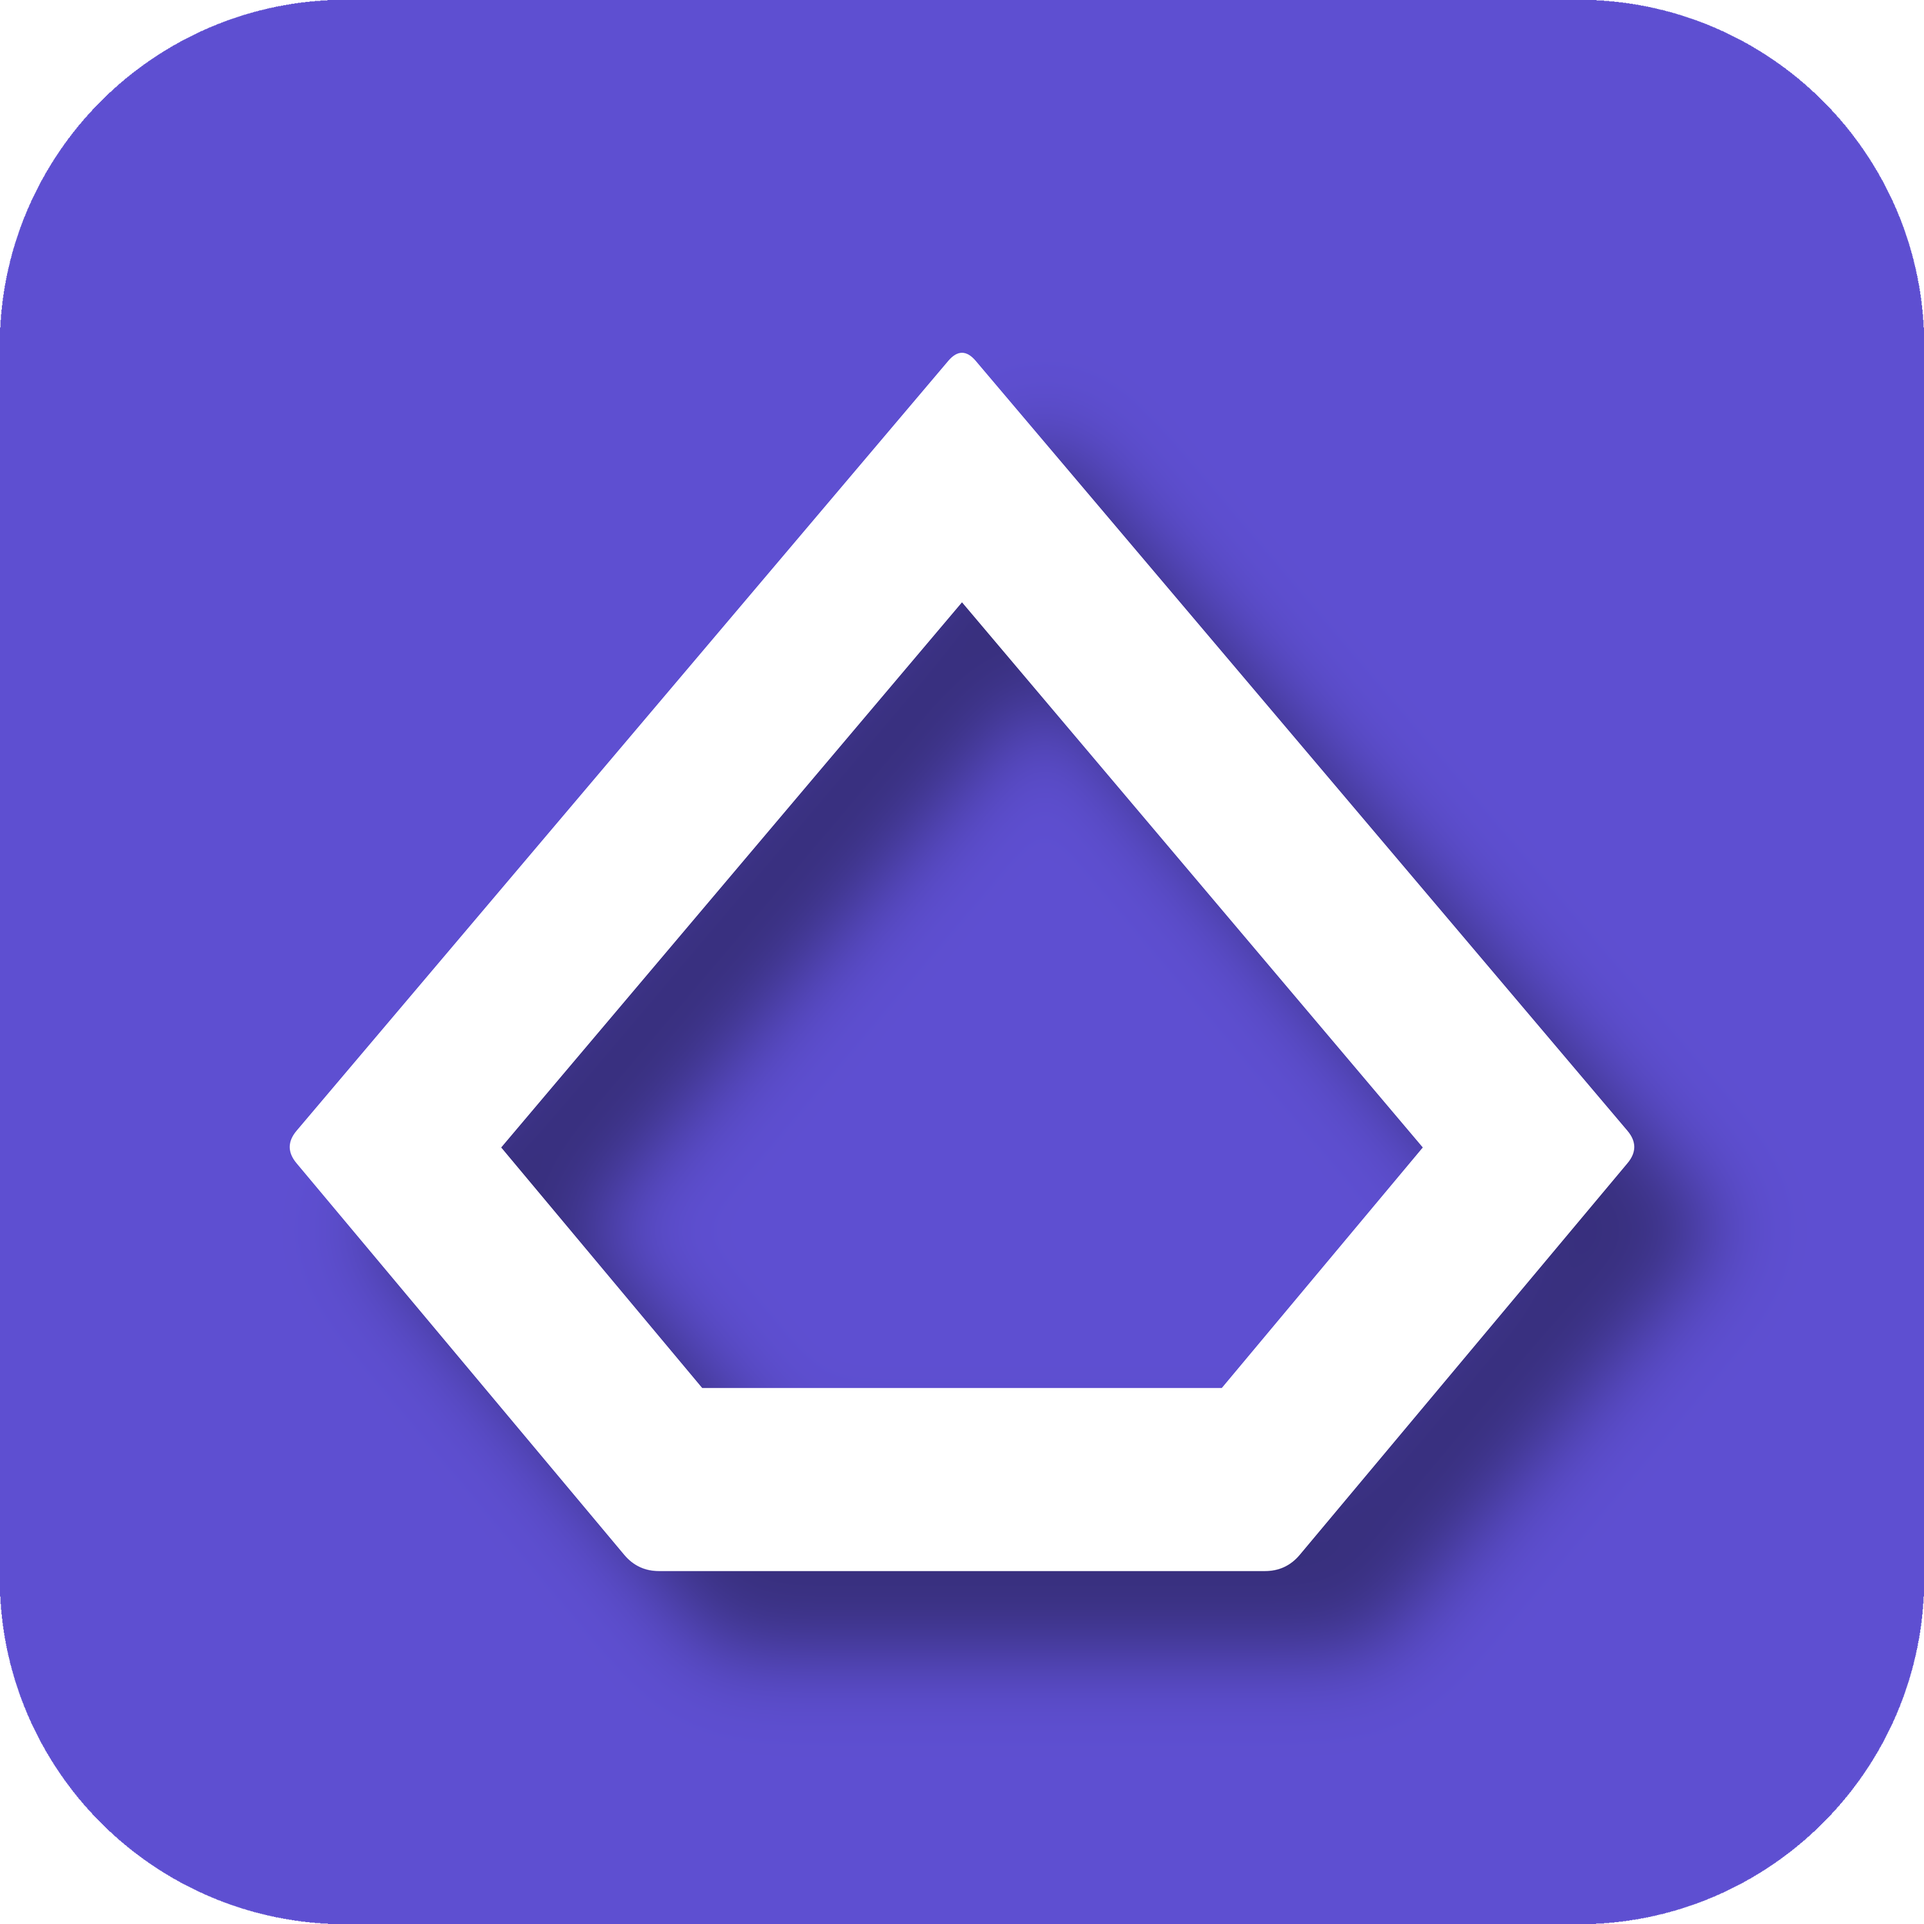
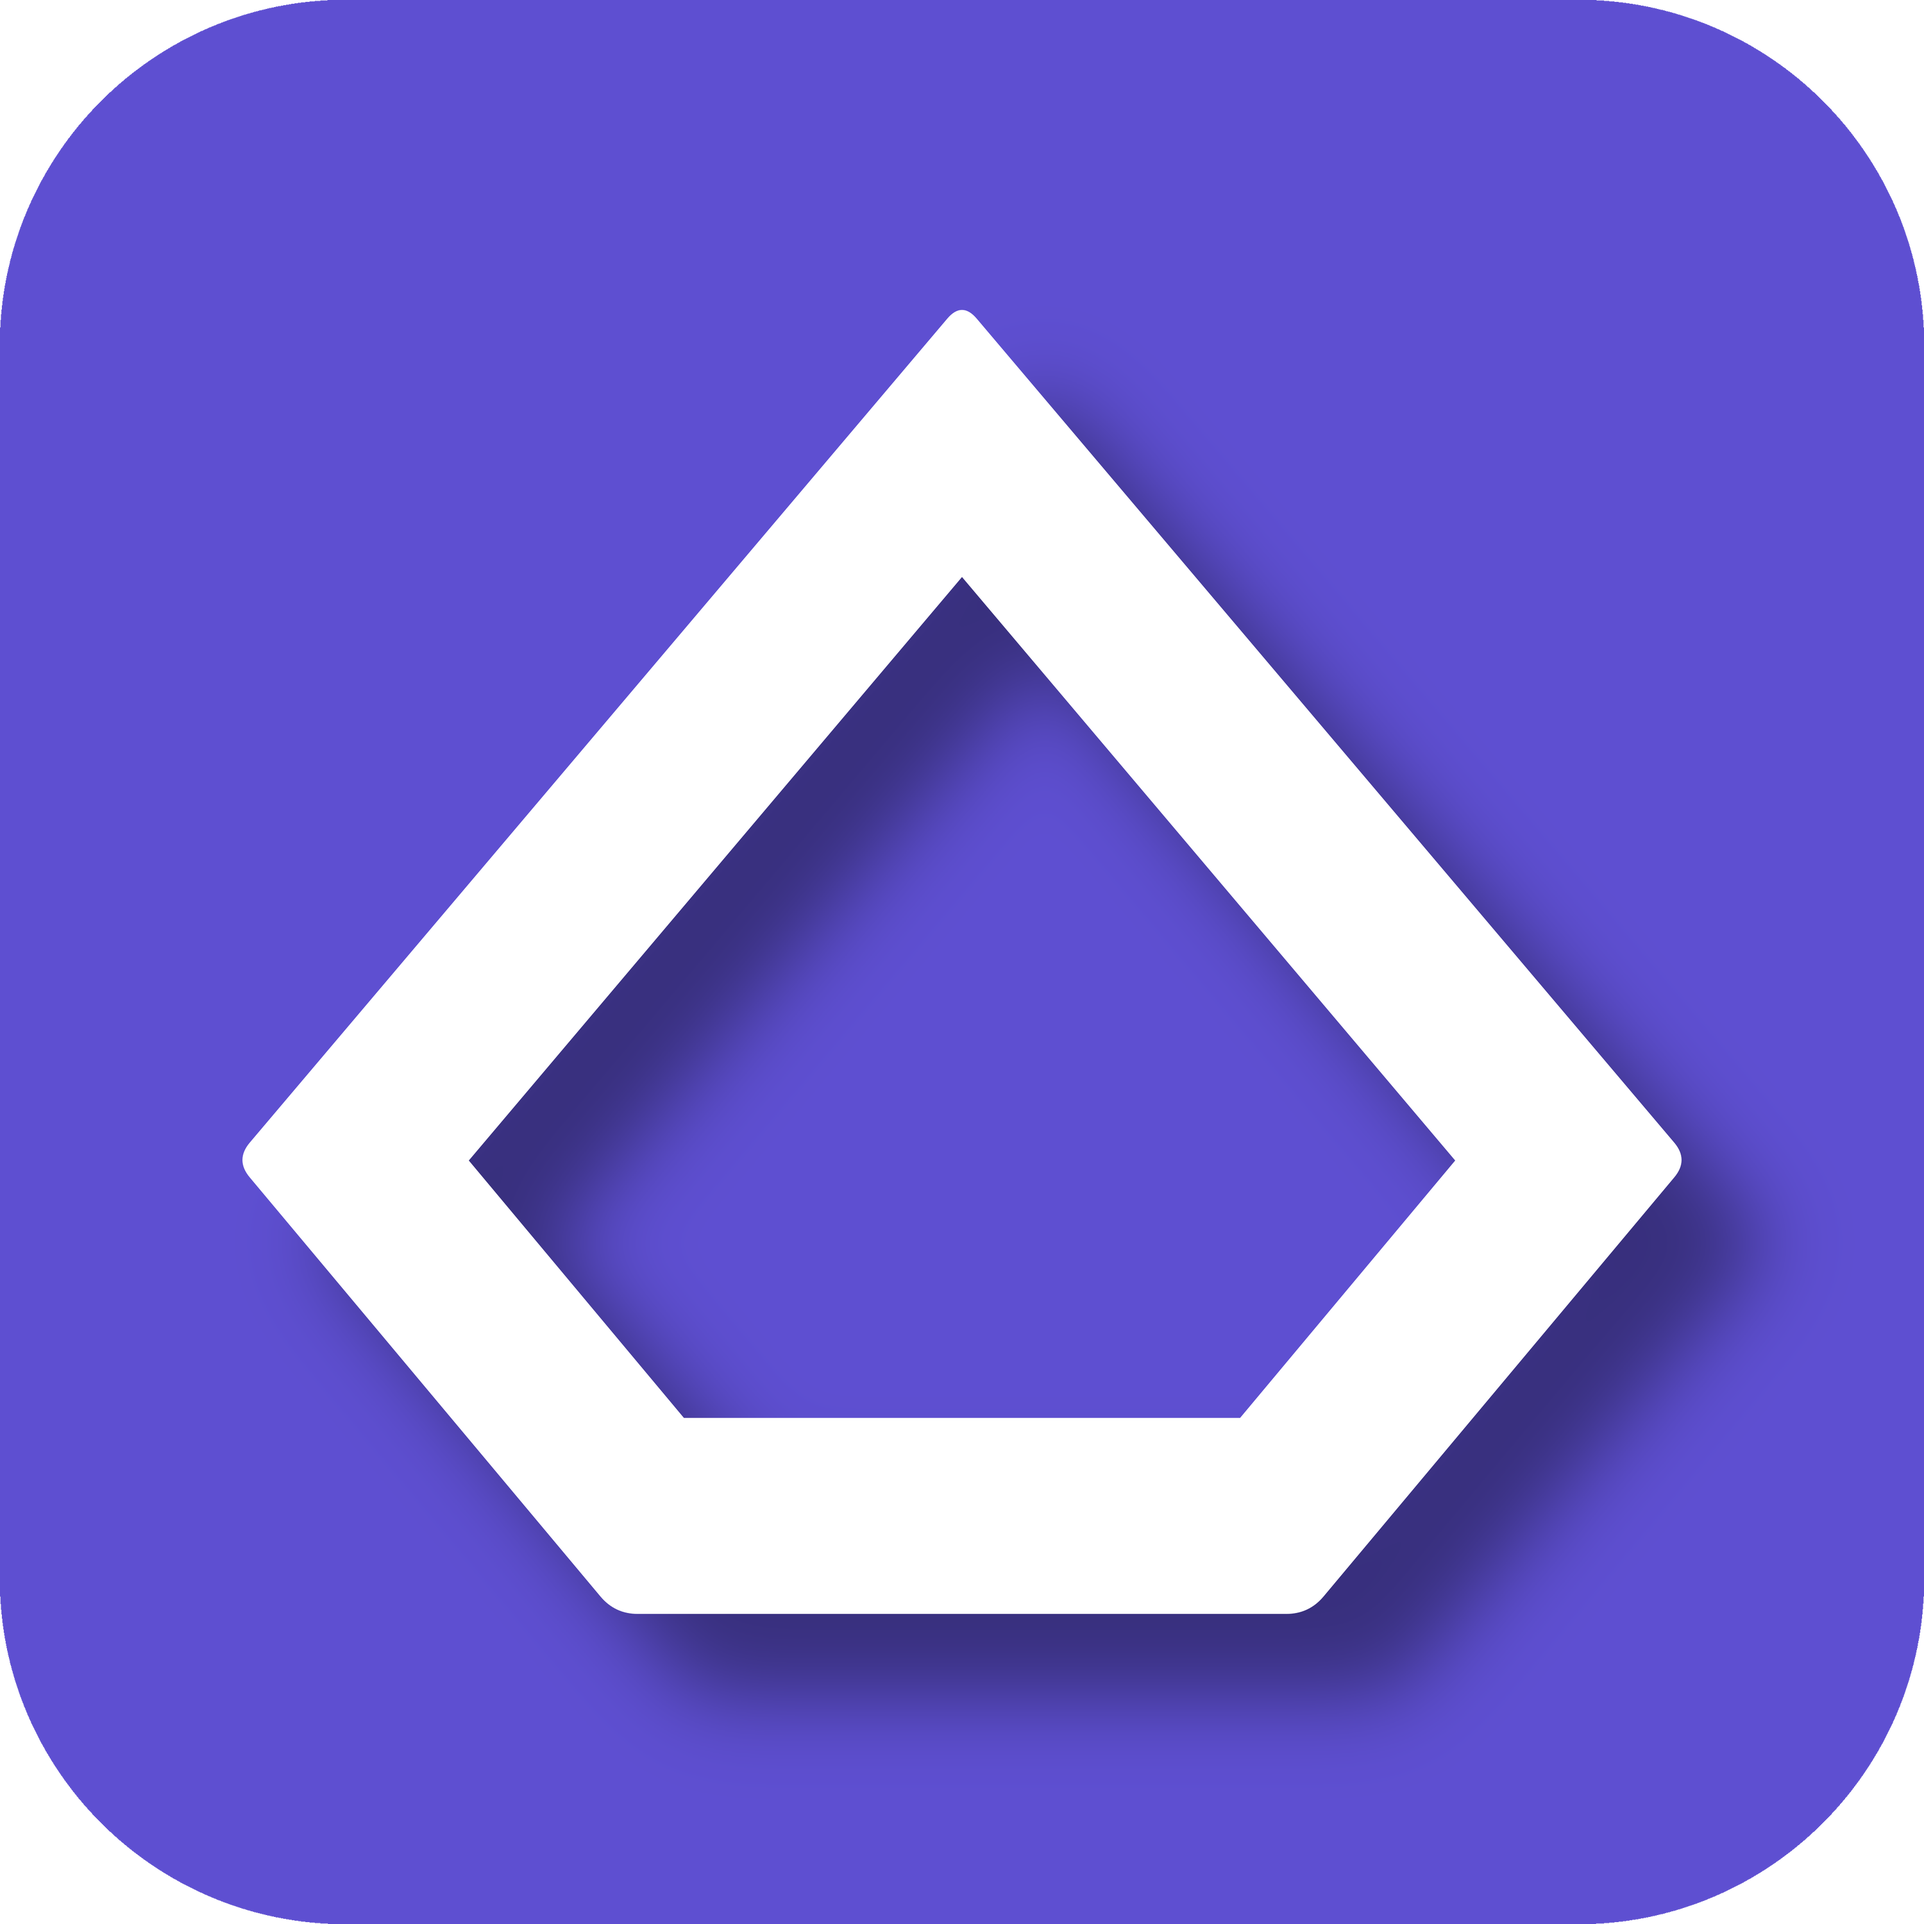
Equalize symbol sizes and update the email signature
The symbols of the brand family now share the same perceived size, so
the icons align when shown side by side. PNG exports and the manifest
are regenerated from the updated vector masters, and the README family
table adds InoPulse, InoPlace and InoShop.

The email signature banner now carries nine brand icons, with new
slices for InoPulse, InoPlace and InoShop.

diff --git a/README.md b/README.md
@@ -21,7 +21,7 @@ KcalbApp is a brand of [Kcalb Ltd](https://kcalb-ltd.com), part of the KcalbApp 
 
 Every PNG is rendered from the SVG masters. Use the SVG whenever the platform accepts it, otherwise the smallest PNG that is at least as large as the display size on a high-density screen.
 
-Direct links, for integrations: `https://raw.githubusercontent.com/KcalbApp/kcalbapp-brand/main/assets/png/round/kcalbapp-round-500.png`. For production, pin a commit hash instead of `main` and check the file against [asset-manifest.json](asset-manifest.json).
+Direct links, for integrations: `https://raw.githubusercontent.com/Kcalb-Ltd/kcalbapp-brand/main/assets/png/round/kcalbapp-round-500.png`. For production, pin a commit hash instead of `main` and check the file against [asset-manifest.json](asset-manifest.json).
 
 ## Official colors
 
@@ -47,21 +47,24 @@ The icon is a flat brand color with a white symbol and a soft drop shadow toward
 
 ## Email signature
 
-[`assets/email-signature/`](assets/email-signature/) holds the eight slices of the Kcalb Ltd email signature banner, at twice the display size for high-density screens. Each brand icon is a separate image so that it can link to its own website.
+[`assets/email-signature/`](assets/email-signature/) holds the eleven slices of the Kcalb Ltd email signature banner, at twice the display size for high-density screens. Each brand icon is a separate image so that it can link to its own website.
 
 ## The Kcalb Ltd brand family
 
 | Brand | Assets | Website |
 |---|---|---|
-| Xitcoin | [`xitcoin-org/brand`](https://github.com/xitcoin-org/brand) | [xitcoin.org](https://xitcoin.org) |
-| KcalbApp | [`KcalbApp/kcalbapp-brand`](https://github.com/KcalbApp/kcalbapp-brand) | [kcalb-ltd.com](https://kcalb-ltd.com) |
-| InoAi | [`KcalbApp/inoai-brand`](https://github.com/KcalbApp/inoai-brand) | [inoai.org](https://inoai.org) |
-| Kcanther | [`KcalbApp/kcanther-brand`](https://github.com/KcalbApp/kcanther-brand) | [kcanther.org](https://kcanther.org) |
-| InoSwap | [`KcalbApp/inoswap-brand`](https://github.com/KcalbApp/inoswap-brand) | [inoswap.org](https://inoswap.org) |
-| StakeHolDrop | [`KcalbApp/stakeholdrop-brand`](https://github.com/KcalbApp/stakeholdrop-brand) | [stakeholdrop.com](https://stakeholdrop.com) |
-| Crypto-Only | [`KcalbApp/crypto-only-brand`](https://github.com/KcalbApp/crypto-only-brand) | [crypto-only.org](https://crypto-only.org) |
+| InoPulse | [`Kcalb-Ltd/inopulse-brand`](https://github.com/Kcalb-Ltd/inopulse-brand) | [inopulse.org](https://inopulse.org) |
+| Crypto-Only | [`Kcalb-Ltd/crypto-only-brand`](https://github.com/Kcalb-Ltd/crypto-only-brand) | [crypto-only.org](https://crypto-only.org) |
+| KcalbApp | [`Kcalb-Ltd/kcalbapp-brand`](https://github.com/Kcalb-Ltd/kcalbapp-brand) | [kcalb-ltd.com](https://kcalb-ltd.com) |
+| StakeHolDrop | [`Kcalb-Ltd/stakeholdrop-brand`](https://github.com/Kcalb-Ltd/stakeholdrop-brand) | [stakeholdrop.com](https://stakeholdrop.com) |
+| InoAi | [`Kcalb-Ltd/inoai-brand`](https://github.com/Kcalb-Ltd/inoai-brand) | [inoai.org](https://inoai.org) |
+| InoSwap | [`Kcalb-Ltd/inoswap-brand`](https://github.com/Kcalb-Ltd/inoswap-brand) | [inoswap.org](https://inoswap.org) |
+| InoPlace | [`Kcalb-Ltd/inoplace-brand`](https://github.com/Kcalb-Ltd/inoplace-brand) | [inoplace.org](https://inoplace.org) |
+| Kcanther | [`Kcalb-Ltd/kcanther-brand`](https://github.com/Kcalb-Ltd/kcanther-brand) | [kcanther.org](https://kcanther.org) |
+| Xitcoin | [`Xitcoin-org/brand`](https://github.com/Xitcoin-org/brand) | [xitcoin.org](https://xitcoin.org) |
+| InoShop | [`Kcalb-Ltd/inoshop-brand`](https://github.com/Kcalb-Ltd/inoshop-brand) | [inoshop.org](https://inoshop.org) |
 
 ## License and contact
 
 Copyright © 2026 Kcalb Ltd. All rights reserved — the [LICENSE](LICENSE) allows use of the unmodified files to refer to KcalbApp.
-Questions and requests: **contact@kcalb-ltd.com**, or open an [issue](https://github.com/KcalbApp/kcalbapp-brand/issues).
+Questions and requests: **contact@kcalb-ltd.com**, or open an [issue](https://github.com/Kcalb-Ltd/kcalbapp-brand/issues).

diff --git a/ASSETS.md b/ASSETS.md
@@ -2,18 +2,21 @@
 
 Generated 24 September 2026. The [machine-readable manifest](asset-manifest.json) records byte lengths and SHA-256 identifiers; `scripts/verify-assets.py` checks them on every change.
 
[2 lines of base64/hex data omitted]
 
 | File | Format | Size | Use |
 |---|---|---|---|
-| [assets/email-signature/kcalbapp-signature.png](assets/email-signature/kcalbapp-signature.png) | PNG | 696 × 192 | Email signature banner slice (2x) |
-| [assets/email-signature/sig-crypto-only.png](assets/email-signature/sig-crypto-only.png) | PNG | 76 × 192 | Email signature banner slice (2x) |
+| [assets/email-signature/kcalbapp-signature.png](assets/email-signature/kcalbapp-signature.png) | PNG | 612 × 192 | Email signature banner slice (2x) |
+| [assets/email-signature/sig-crypto-only.png](assets/email-signature/sig-crypto-only.png) | PNG | 60 × 192 | Email signature banner slice (2x) |
 | [assets/email-signature/sig-fin.png](assets/email-signature/sig-fin.png) | PNG | 48 × 192 | Email signature banner slice (2x) |
-| [assets/email-signature/sig-inoai.png](assets/email-signature/sig-inoai.png) | PNG | 76 × 192 | Email signature banner slice (2x) |
-| [assets/email-signature/sig-inoswap.png](assets/email-signature/sig-inoswap.png) | PNG | 76 × 192 | Email signature banner slice (2x) |
-| [assets/email-signature/sig-kcanther.png](assets/email-signature/sig-kcanther.png) | PNG | 76 × 192 | Email signature banner slice (2x) |
-| [assets/email-signature/sig-stakeholdrop.png](assets/email-signature/sig-stakeholdrop.png) | PNG | 76 × 192 | Email signature banner slice (2x) |
-| [assets/email-signature/sig-xitcoin.png](assets/email-signature/sig-xitcoin.png) | PNG | 76 × 192 | Email signature banner slice (2x) |
+| [assets/email-signature/sig-inoai.png](assets/email-signature/sig-inoai.png) | PNG | 60 × 192 | Email signature banner slice (2x) |
+| [assets/email-signature/sig-inoplace.png](assets/email-signature/sig-inoplace.png) | PNG | 60 × 192 | Email signature banner slice (2x) |
+| [assets/email-signature/sig-inopulse.png](assets/email-signature/sig-inopulse.png) | PNG | 60 × 192 | Email signature banner slice (2x) |
+| [assets/email-signature/sig-inoshop.png](assets/email-signature/sig-inoshop.png) | PNG | 60 × 192 | Email signature banner slice (2x) |
+| [assets/email-signature/sig-inoswap.png](assets/email-signature/sig-inoswap.png) | PNG | 60 × 192 | Email signature banner slice (2x) |
+| [assets/email-signature/sig-kcanther.png](assets/email-signature/sig-kcanther.png) | PNG | 60 × 192 | Email signature banner slice (2x) |
+| [assets/email-signature/sig-stakeholdrop.png](assets/email-signature/sig-stakeholdrop.png) | PNG | 60 × 192 | Email signature banner slice (2x) |
+| [assets/email-signature/sig-xitcoin.png](assets/email-signature/sig-xitcoin.png) | PNG | 60 × 192 | Email signature banner slice (2x) |
 | [assets/png/round/kcalbapp-round-1024.png](assets/png/round/kcalbapp-round-1024.png) | PNG | 1024 × 1024 | Round avatar, brand color and shadow |
 | [assets/png/round/kcalbapp-round-200.png](assets/png/round/kcalbapp-round-200.png) | PNG | 200 × 200 | Round avatar, brand color and shadow |
 | [assets/png/round/kcalbapp-round-3000.png](assets/png/round/kcalbapp-round-3000.png) | PNG | 3000 × 3000 | Round avatar, brand color and shadow |
